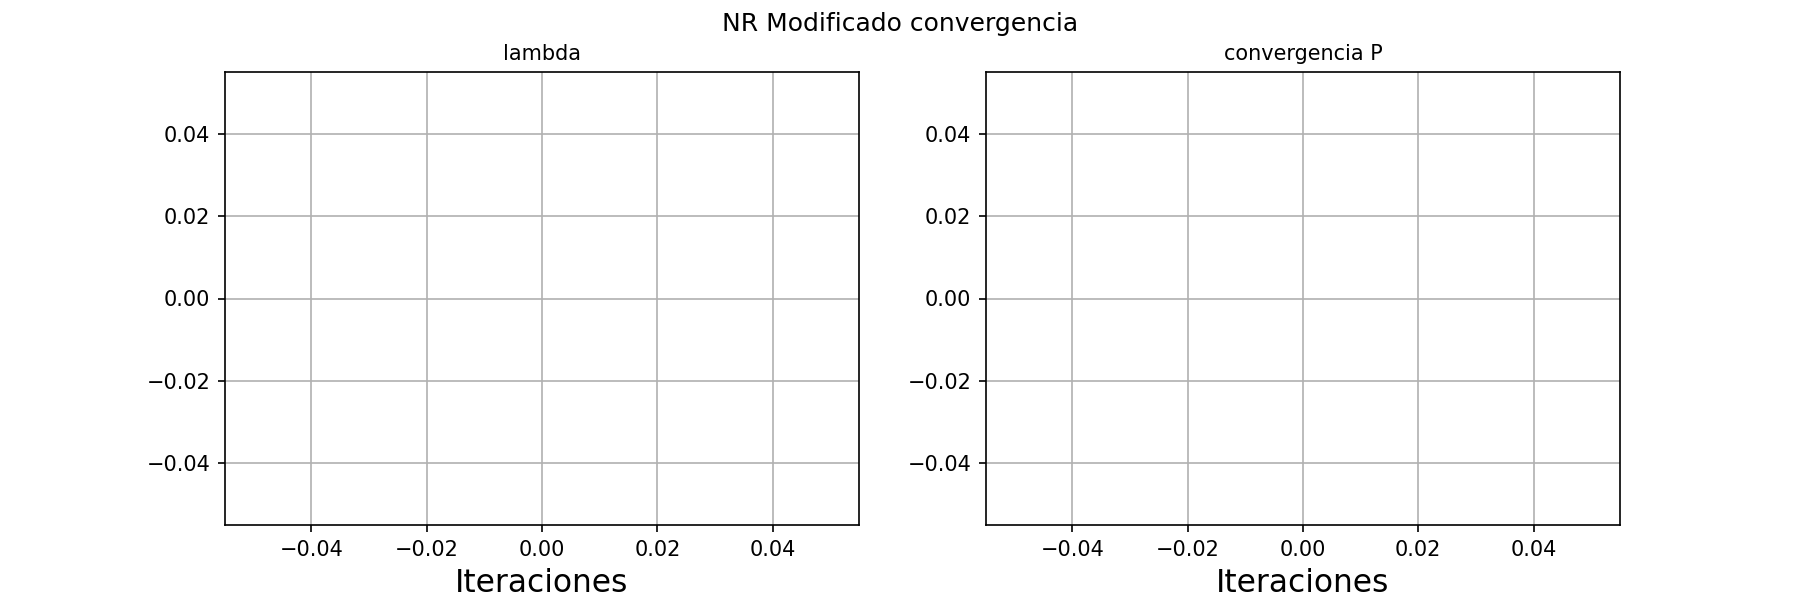
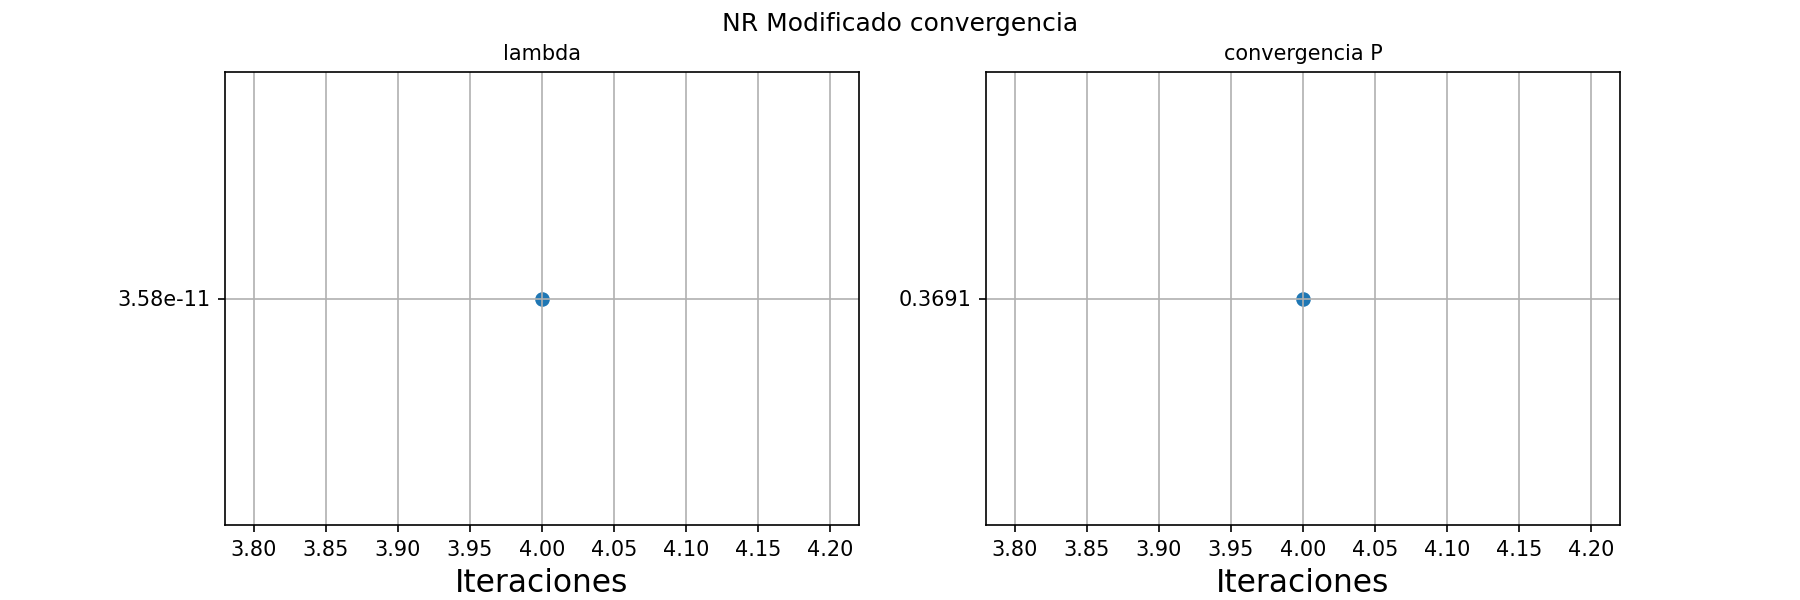
Ya funcan bien los graficos del 3.g

diff --git a/Ejercicio3.py b/Ejercicio3.py
@@ -80,10 +80,11 @@ semilla_2 = semilla + cota_semilla
 
 (matriz_NRM, iteraciones_NRM) = br.RaizNRmodificado(funcion, f_prima, f_segunda, max_error, semilla, cota_semilla)
 
+
 #%%Generación de gráficos
 print("Generándose los gráficos...espere porfavor\n")
 header = ["Iteración", "Resultado", "Error", "Lambda", "p"]
-
+"""
 matriz_biseccion.insert(0, header)
 tb.GenerarTabla(matriz_biseccion, iteraciones_biseccion, "Bisección con Error "+ str(max_error), "Bisección_graph_"+ str(max_error))
 tb.GeneraeConvGrafico(matriz_biseccion, iteraciones_biseccion, "Bisección convergencia", "Bisección_graph_convergenia"+ str(max_error))
@@ -99,7 +100,7 @@ tb.GeneraeConvGrafico(matriz_PF, iteraciones_PF, "PuntoFijo convergencia","Punto
 matriz_NR.insert(0, header)
 tb.GenerarTabla(matriz_NR, iteraciones_NR, "NR con Error " + str(max_error), "NR_graph_"+ str(max_error))
 tb.GeneraeConvGrafico(matriz_NR, iteraciones_NR, "NR convergencia", "NR_graph_convergenia"+ str(max_error))
-
+"""
 matriz_NRM.insert(0,header)
 tb.GenerarTabla(matriz_NRM, iteraciones_NRM, "NR Modificado con Error " + str(max_error), "NrMod_graph"+ str(max_error))
 tb.GeneraeConvGrafico(matriz_NRM, iteraciones_NRM, "NR Modificado convergencia", "NRMod_graph_convergenia"+ str(max_error))

diff --git a/GeneradorTablas.py b/GeneradorTablas.py
@@ -122,16 +122,18 @@ def GeneraeConvGrafico(data, iteraciones, title_text, file_name):
     x=[]
     y1=[]
     y2=[]
-    i=0
+    i=1
+    iteraciones
     if(iteraciones>3):
         while i<=3:
             data.pop(0)
             i+=1
+    
     else: return
-    for i in data:
-        x.append(i[0])
-        y1.append(i[3])
-        y2.append(i[4])
+    for k in data:
+        x.append(k[0])
+        y1.append(k[3])
+        y2.append(k[4])
         print(x,y1,y2)
         
     fig, axs = plt.subplots(1, 2, figsize=(12, 4), sharey=False)
